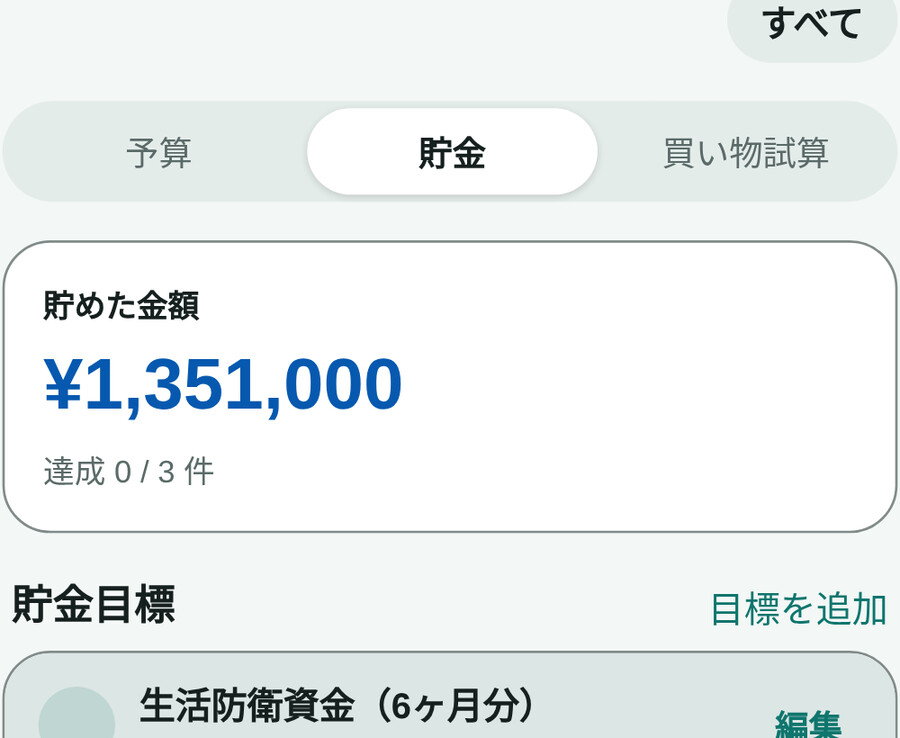
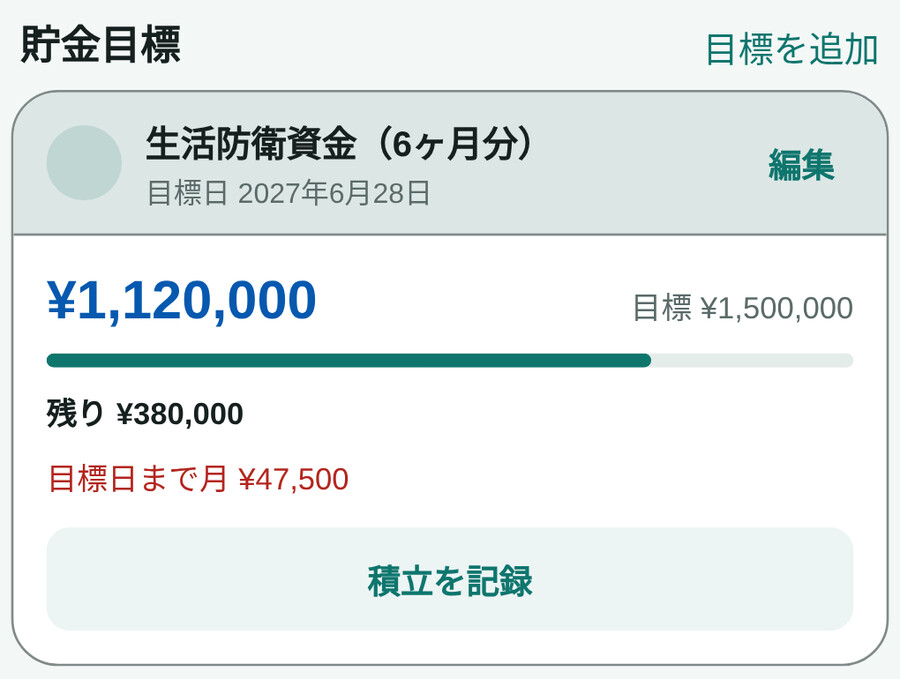
Match Expo onboarding screenshots to the active color scheme

diff --git a/apps/mobile/src/ui/GettingStarted.tsx b/apps/mobile/src/ui/GettingStarted.tsx
@@ -1,6 +1,6 @@
 import { Image } from 'expo-image';
 import { useState } from 'react';
-import { Pressable, ScrollView, Text, View } from 'react-native';
+import { Pressable, ScrollView, Text, View, useColorScheme } from 'react-native';
 import { SafeAreaView } from 'react-native-safe-area-context';
 import { metrics, usePalette } from '@/lib/theme';
 
@@ -9,30 +9,35 @@ const pages = [
     title: '画面下の＋から記録',
     detail: '中央の＋を押して、支出・収入・振替を選びます。金額などを入力して保存すると、取引タブから見返せます。',
     image: require('../../assets/start-guide/record.jpg'),
+    darkImage: require('../../assets/start-guide/record-dark.jpg'),
     imageHeight: 118,
   },
   {
     title: '何にいくら使ったか確認',
     detail: 'ホームで残高と月の収支を見て、分析で支出の割合や収入の内訳を見比べられます。',
     image: require('../../assets/start-guide/analysis.jpg'),
+    darkImage: require('../../assets/start-guide/analysis-dark.jpg'),
     imageHeight: 265,
   },
   {
     title: 'カードの未払いとポイント',
     detail: 'カードごとに支払残額と利用可能額を確認。ポイントで払った分は、充当額を記録して実際の支払額に反映できます。',
     image: require('../../assets/start-guide/card.jpg'),
+    darkImage: require('../../assets/start-guide/card-dark.jpg'),
     imageHeight: 254,
   },
   {
     title: '目的に合わせて貯金',
     detail: '旅行や買い替えなどの目標を作り、積み立てを記録。目標まであといくらか確認できます。',
     image: require('../../assets/start-guide/savings.jpg'),
+    darkImage: require('../../assets/start-guide/savings-dark.jpg'),
     imageHeight: 254,
   },
 ] as const;
 
 export function GettingStarted({ onClose, review = false }: { onClose: () => void; review?: boolean }) {
   const p = usePalette();
+  const isDark = useColorScheme() === 'dark';
   const [index, setIndex] = useState(0);
   const page = pages[index];
   const last = index === pages.length - 1;
@@ -52,7 +57,7 @@ export function GettingStarted({ onClose, review = false }: { onClose: () => voi
           <View importantForAccessibility="no-hide-descendants" accessibilityElementsHidden style={{
             backgroundColor: p.fill, borderRadius: 24, padding: 10, overflow: 'hidden',
           }}>
-            <Image source={page.image} contentFit="contain" style={{ height: page.imageHeight, width: '100%' }} />
+            <Image source={isDark ? page.darkImage : page.image} contentFit="contain" style={{ height: page.imageHeight, width: '100%' }} />
           </View>
           <Text key={page.title} accessibilityRole="header" style={{ color: p.text, fontSize: 28, fontWeight: '800' }}>
             {page.title}
